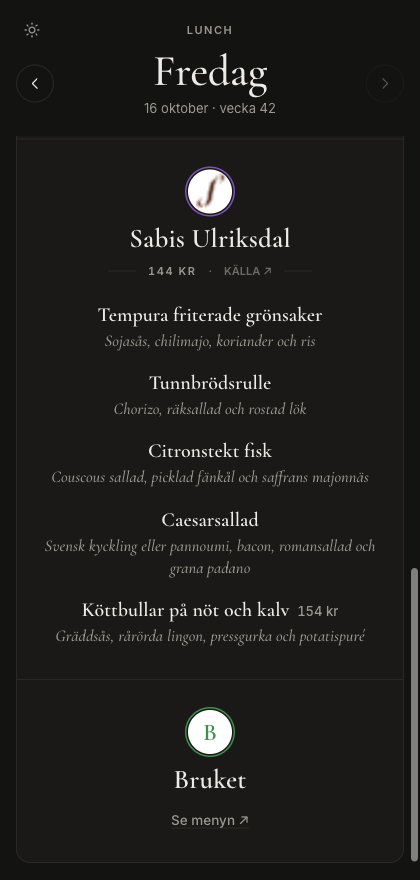
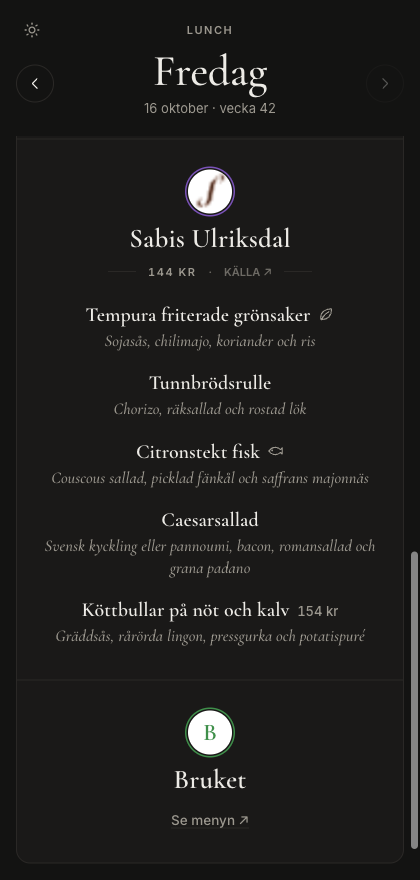
Menyerna sida vid sida på datorn
Från 900 px ligger restaurangerna i ett rutnät med två eller tre
kolumner, max 1180 px. Dagväljaren och bekräftelseraden är kvar smala
och centrerade, knapparna sitter i sidhuvudets hörn. Mobilen är som förut.
README:n har en skärmbild från datorn och nya bilder med typikonerna.

diff --git a/docs/style.css b/docs/style.css
@@ -54,7 +54,7 @@ a { color: inherit; }
   position: sticky;
   top: 0;
   z-index: 2;
-  max-width: 620px;
+  max-width: 1180px;
   margin: 0 auto;
   padding: 22px 16px 18px;
   background: var(--bg);
@@ -108,7 +108,7 @@ a { color: inherit; }
 }
 .stats-link:hover { background: var(--hover); color: var(--text); }
 .stats-link svg { width: 17px; height: 17px; fill: none; stroke: currentColor; stroke-width: 2; stroke-linecap: round; }
-.day { display: flex; align-items: center; justify-content: space-between; gap: 12px; }
+.day { display: flex; align-items: center; justify-content: space-between; gap: 12px; max-width: 588px; margin: 0 auto; }
 .title { text-align: center; }
 .title h1 { margin: 0; font: 500 44px/1 var(--serif); letter-spacing: -0.01em; }
 .title p { margin: 6px 0 0; color: var(--muted); font-size: 13px; }
@@ -289,6 +289,9 @@ main { max-width: 620px; margin: 0 auto; padding: 0 16px 64px; }
   border-radius: 14px;
   background: var(--surface);
   box-shadow: 0 8px 24px rgb(0 0 0 / .12);
+  max-width: 588px;
+  margin-left: auto;
+  margin-right: auto;
 }
 .confirm-text { flex: 1; font-weight: 500; }
 .button {
@@ -305,3 +308,29 @@ main { max-width: 620px; margin: 0 auto; padding: 0 16px 64px; }
 .button.ghost:hover:not(:disabled) { background: var(--hover); }
 .button.primary { background: var(--text); color: var(--bg); }
 .button.primary:hover:not(:disabled) { opacity: .88; }
+
+/* Dator: menyerna sida vid sida som menysidor, två eller tre kolumner */
+@media (min-width: 900px) {
+  main { max-width: 1180px; padding-left: 24px; padding-right: 24px; }
+  .top { padding-left: 24px; padding-right: 24px; }
+  .cards {
+    display: grid;
+    grid-template-columns: repeat(auto-fill, minmax(340px, 1fr));
+    gap: 16px;
+    border: 0;
+    border-radius: 0;
+    background: none;
+    overflow: visible;
+  }
+  .cards > li {
+    display: flex;
+    border: 1px solid var(--line);
+    border-radius: 14px;
+    background: var(--surface);
+    overflow: hidden;
+  }
+  .cards > li + li { border-top: 1px solid var(--line); }
+  .cards > li > .card { flex: 1; }
+  .status { margin-bottom: 22px; }
+  .wheel { width: 340px; }
+}

diff --git a/README.md b/README.md
@@ -10,11 +10,17 @@ och ett lyckohjul som bestämmer klockan halv tolv.
 
 <br>
 
+<img src="screenshots/dator.png" width="840" alt="Lunchsidan på en dator: dagens menyer från sex restauranger i tre kolumner">
+
+<sub>På datorn ligger menyerna sida vid sida</sub>
+
+<br><br>
+
 <img src="screenshots/rosta.png" width="260" alt="Dagens menyer, med Reimers vald och en rad längst ned för att bekräfta rösten">&nbsp;&nbsp;
 <img src="screenshots/hjulet.png" width="260" alt="Lyckohjulet med restaurangerna och dagens vinnare">&nbsp;&nbsp;
 <img src="screenshots/morkt.png" width="260" alt="Sabis meny i mörkt läge">
 
-<sub>Rösta på menyerna · hjulet bestämmer · samma sida i mörkt läge</sub>
+<sub>På mobilen: rösta · hjulet bestämmer · mörkt läge</sub>
 
 </div>
 
@@ -29,7 +35,8 @@ och ett lyckohjul som bestämmer klockan halv tolv.
 | **11.30** | Hjulet snurrar. Varje restaurang får en bit som är lika stor som dess andel av rösterna, så den populäraste har störst chans, men inget är avgjort i förväg. Alla ser samma hjul och samma vinnare. Har ingen röstat har alla lika stor chans. |
 | **Efteråt** | Alla menyer finns kvar under hjulet, med den valda restaurangen först. |
 
-Bläddra mellan dagarna med pilarna. Knappen uppe till vänster byter mellan ljust och mörkt läge.
+Små ikoner efter rätterna visar vad som är fisk, fågel, vegetariskt eller veganskt. Bläddra mellan dagarna med pilarna,
+och byt mellan ljust och mörkt läge med knappen uppe till vänster.
 
 ## Restaurangerna
 

diff --git a/.claude/skills/maintain-lunch/SKILL.md b/.claude/skills/maintain-lunch/SKILL.md
@@ -211,6 +211,11 @@ färgad ring, namn, en metarad (pris · källa · röster), rätter centrerade m
 eget pris) och tillbehören i kursiv under. Under korten visas en teckenförklaring för dagens ikoner.
 Färg betyder alltid en restaurang; därför är typikonerna i textens dämpade färg och värmekartan i en neutral skala.
 
+Layout: under 900 px är menyerna en enda lista (mobil). Från 900 px (`@media (min-width: 900px)` sist i `style.css`) ligger
+de i ett rutnät med `minmax(340px, 1fr)`: två kolumner på mindre skärmar, tre på stora, max 1180 px. Dagväljaren och
+bekräftelseraden är alltid högst 588 px och centrerade; ljust/mörkt- och statistikknappen sitter i sidhuvudets hörn.
+Testa alltid både 375 px, ca 1000 px och 1280 px.
+
 ### Lägga till en typikon
 1. `save_menu.py`: lägg till värdet i `DISH_TYPES`.
 2. `app.js`: lägg till i `DISH_TYPES` med `label` och `paths` (24×24, bara linjer, rundade ändar, samma stil som de andra).
